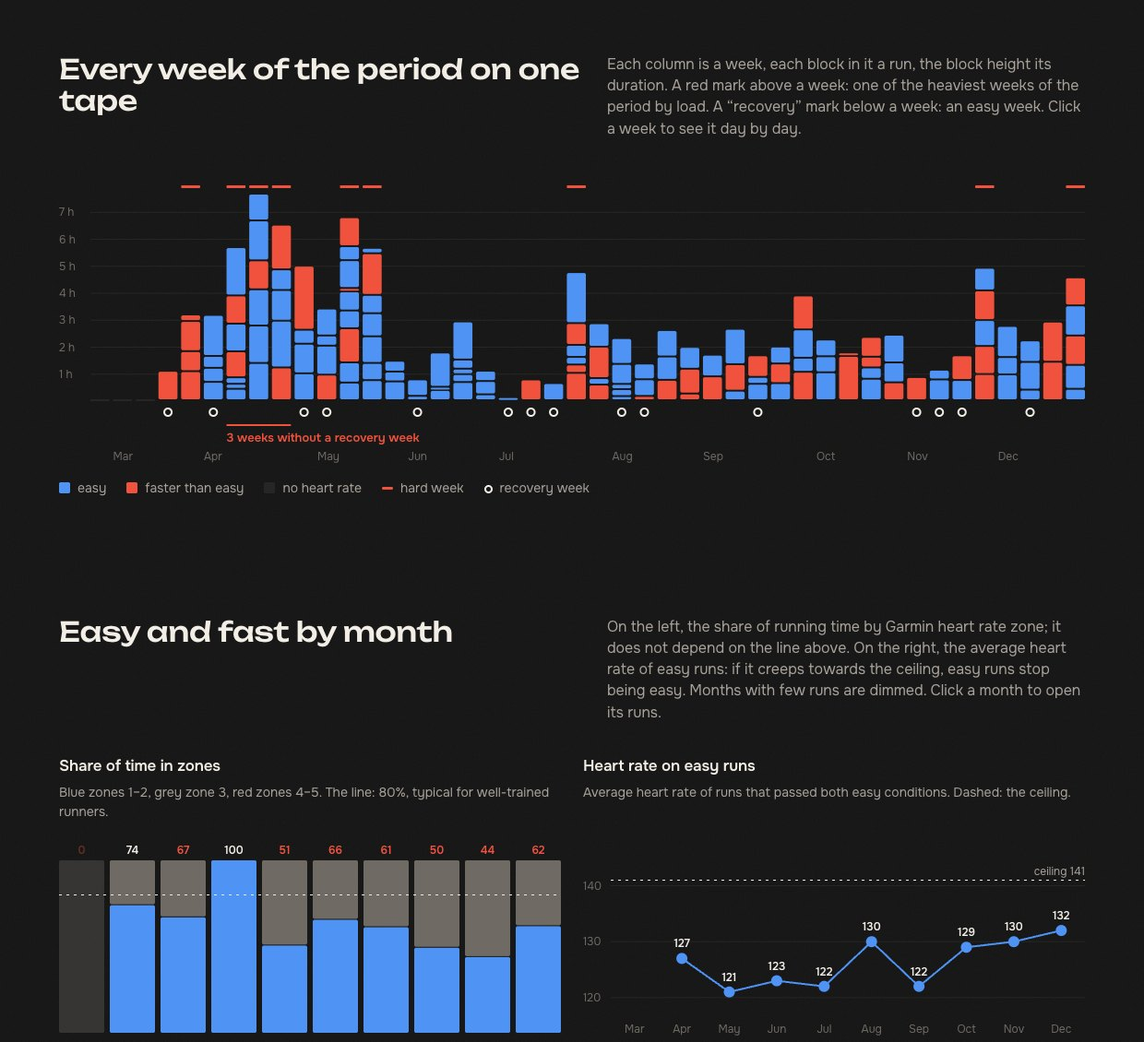
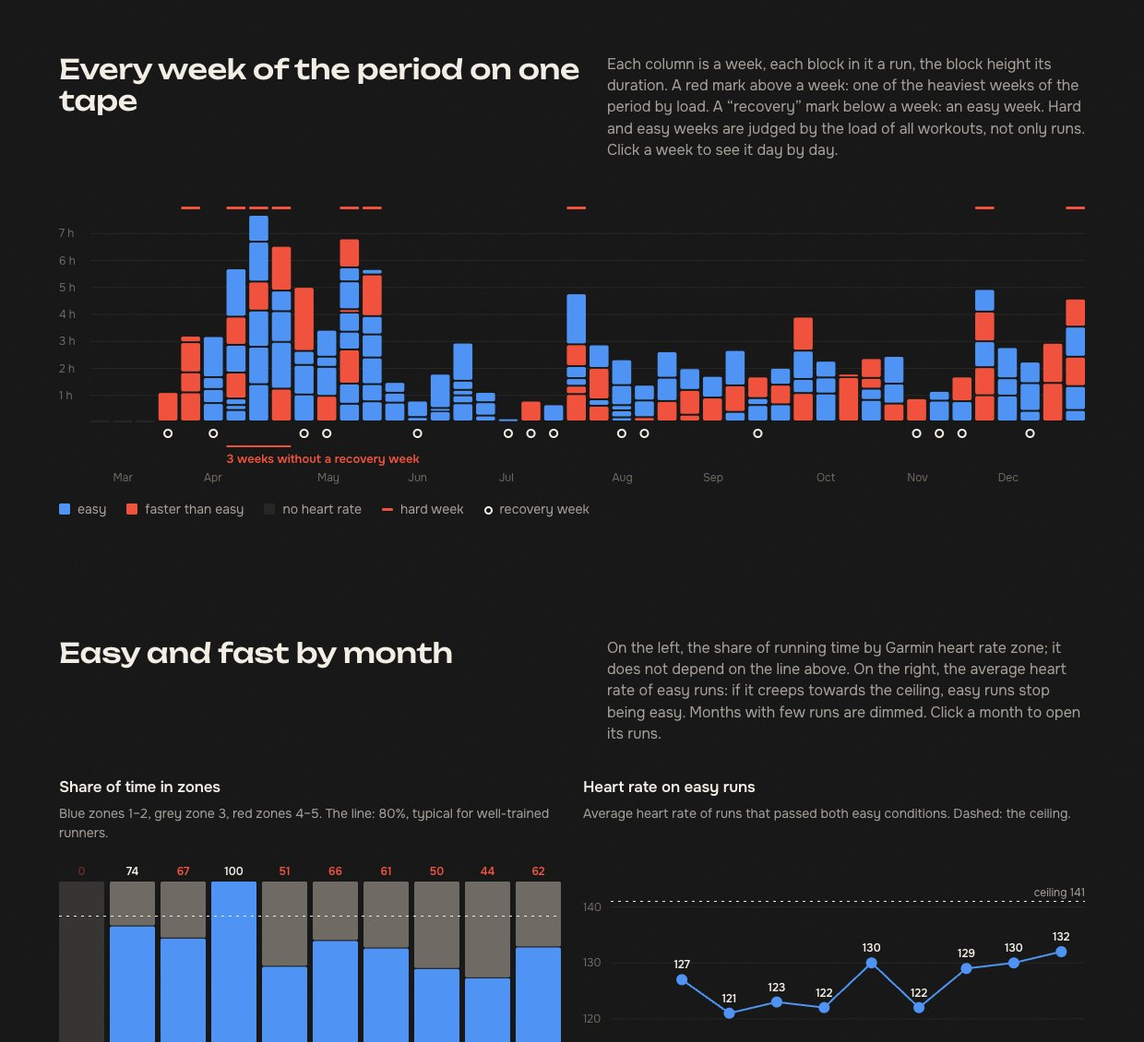
guides: say weekly load counts all workouts

diff --git a/guides/dashboard/template.html b/guides/dashboard/template.html
@@ -343,7 +343,7 @@ ru: {
   hz_shift: (d, dn, P) => `Граница сдвинута на <b>${d > 0 ? '+' : ''}${d}</b>: ${dn === 0 ? 'ни одна пробежка не поменяла сторону' : dn > 0 ? `ещё <b>${P(dn, L.ru.runsBecame)}</b> лёгкими` : `<b>${P(-dn, L.ru.runsStopped)}</b> быть лёгкими`}. Это меняет только дашборд, ваши зоны в Garmin остаются как были.`,
   ceil_label: 'граница', ceil_aria: 'Граница лёгкого пульса', reset: 'как в часах', thr: 'порог', hz_aria: 'Пробежки по среднему пульсу и границе лёгкого',
   tape_h2: 'Все недели периода одной лентой',
-  tape_lead: 'Столбик: неделя, блок в нём: пробежка, чем выше, тем дольше. Красная черта: одна из самых тяжёлых недель, «разгрузка»: лёгкая. Нажмите на неделю, чтобы открыть её по дням.',
+  tape_lead: 'Столбик: неделя, блок в нём: пробежка, чем выше, тем дольше. Красная черта: одна из самых тяжёлых недель, «разгрузка»: лёгкая. Тяжёлые и лёгкие недели считаются по нагрузке всех тренировок, не только бега. Нажмите на неделю, чтобы открыть её по дням.',
   lg_easy: 'лёгкая', lg_fast: 'быстрее лёгкого', lg_nohr: 'без пульса', lg_hard: 'ударная неделя', lg_deload: 'разгрузка',
   tape_aria: 'Пробежки по неделям', h: 'ч', min: 'мин', km: 'км', perkm: '/км', hr: 'пульс', max: 'макс', load: 'нагрузка', hardwk: 'ударная', deloadwk: 'разгрузка', rhr: 'пульс покоя',
   week_from: 'неделя с', Week_from: 'Неделя с', streak_lbl: n => `${n} ${slav(n, ['неделя','недели','недель'])} без разгрузки`, min_run: 'мин бега', close: 'закрыть', other: 'другая тренировка · нагрузка', rest: 'покой', treadmill: 'дорожка',
@@ -424,7 +424,7 @@ en: {
   hz_shift: (d, dn, P) => `Ceiling moved by <b>${d > 0 ? '+' : ''}${d}</b>: ${dn === 0 ? 'no run changed sides' : dn > 0 ? `<b>${P(dn, L.en.runsBecame)}</b> easy` : `<b>${P(-dn, L.en.runsStopped)}</b> easy`}. This changes how the dashboard looks at your runs, not your zones in Garmin.`,
   ceil_label: 'ceiling', ceil_aria: 'Easy heart rate ceiling', reset: 'as in the watch', thr: 'threshold', hz_aria: 'Runs by average heart rate against the easy ceiling',
   tape_h2: 'Every week of the period on one tape',
-  tape_lead: 'Each column is a week, each block in it a run, the block height its duration. A red mark above a week: one of the heaviest weeks of the period by load. A “recovery” mark below a week: an easy week. Click a week to see it day by day.',
+  tape_lead: 'Each column is a week, each block in it a run, the block height its duration. A red mark above a week: one of the heaviest weeks of the period by load. A “recovery” mark below a week: an easy week. Hard and easy weeks are judged by the load of all workouts, not only runs. Click a week to see it day by day.',
   lg_easy: 'easy', lg_fast: 'faster than easy', lg_nohr: 'no heart rate', lg_hard: 'hard week', lg_deload: 'recovery week',
   tape_aria: 'Runs by week', h: 'h', min: 'min', km: 'km', perkm: '/km', hr: 'HR', max: 'max', load: 'load', hardwk: 'hard', deloadwk: 'recovery', rhr: 'resting HR',
   week_from: 'week of', Week_from: 'Week of', streak_lbl: n => `${n} weeks without a recovery week`, min_run: 'min of running', close: 'close', other: 'other workout · load', rest: 'resting', treadmill: 'treadmill',
@@ -505,7 +505,7 @@ uk: {
   hz_shift: (d, dn, P) => `Межу зсунуто на <b>${d > 0 ? '+' : ''}${d}</b>: ${dn === 0 ? 'жодна пробіжка не змінила бік' : dn > 0 ? `ще <b>${P(dn, L.uk.runsBecame)}</b> легкими` : `<b>${P(-dn, L.uk.runsStopped)}</b> бути легкими`}. Це змінює погляд дашборду, а не ваші зони в Garmin.`,
   ceil_label: 'межа', ceil_aria: 'Межа легкого пульсу', reset: 'як у годиннику', thr: 'поріг', hz_aria: 'Пробіжки за середнім пульсом і межею легкого',
   tape_h2: 'Усі тижні періоду однією стрічкою',
-  tape_lead: 'Кожен стовпчик тиждень, кожен блок у ньому пробіжка, висота блоку її тривалість. Червона риска над тижнем: один із найважчих тижнів періоду за навантаженням. Мітка «розвантаження» під тижнем: легкий тиждень. Натисніть на тиждень, щоб побачити його по днях.',
+  tape_lead: 'Кожен стовпчик тиждень, кожен блок у ньому пробіжка, висота блоку її тривалість. Червона риска над тижнем: один із найважчих тижнів періоду за навантаженням. Мітка «розвантаження» під тижнем: легкий тиждень. Важкі й легкі тижні рахуються за навантаженням усіх тренувань, не лише бігу. Натисніть на тиждень, щоб побачити його по днях.',
   lg_easy: 'легка', lg_fast: 'швидше за легку', lg_nohr: 'без пульсу', lg_hard: 'ударний тиждень', lg_deload: 'розвантаження',
   tape_aria: 'Пробіжки за тижнями', h: 'год', min: 'хв', km: 'км', perkm: '/км', hr: 'пульс', max: 'макс', load: 'навантаження', hardwk: 'ударний', deloadwk: 'розвантаження', rhr: 'пульс спокою',
   week_from: 'тиждень з', Week_from: 'Тиждень з', streak_lbl: n => `${n} ${slav(n, ['тиждень','тижні','тижнів'])} без розвантаження`, min_run: 'хв бігу', close: 'закрити', other: 'інше тренування · навантаження', rest: 'спокій', treadmill: 'доріжка',

diff --git a/ua/guides/dashboard/index.html b/ua/guides/dashboard/index.html
@@ -218,13 +218,13 @@
     <div class="reads">
       <div class="read"><h3>Вердикт</h3><p>Одна фраза нагорі: що у ваших тренуваннях впадає в око першим. Наприклад, «Мало легкого бігу» або «5 тижнів поспіль без розвантаження». Поруч цифри, на яких вона тримається.</p></div>
       <div class="read"><h3>Лінія легкого</h3><p>Усі пробіжки року точками відносно межі легкого пульсу з вашого годинника. Лінію можна тягнути й дивитися, як вердикт залежить від одного налаштування в Garmin.</p></div>
-      <div class="read"><h3>Періодизація навантаження</h3><p>Кожен тиждень стовпчиком, кожна пробіжка блоком. Видно, як чергуються важкі й легкі тижні, чи закінчується робочий блок розвантаженням і скільки тижнів поспіль навантаження йшло без нього. Клік по тижню розкриває його по днях.</p></div>
+      <div class="read"><h3>Періодизація навантаження</h3><p>Кожен тиждень стовпчиком, кожна пробіжка блоком. Навантаження тижня рахується за всіма тренуваннями з годинника: велосипед, плавання, силові й записана ходьба теж входять, тож важкий тиждень на велосипеді не видаватиметься легким. Видно, як чергуються важкі й легкі тижні, чи закінчується робочий блок розвантаженням і скільки тижнів поспіль навантаження йшло без нього. Клік по тижню розкриває його по днях.</p></div>
       <div class="read"><h3>Техніка</h3><p>Каденс, довжина кроку, контакт із землею й підстрибування по місяцях: що було на початку року і що зараз. Якщо крок став важчим, дашборд перевірить, чи не в спеці справа.</p></div>
       <div class="read"><h3>Що з чим пов’язано</h3><p>Дашборд порівнює пробіжки між собою: спека, сон, навантаження напередодні, пульс спокою, HRV. Показує лише помітні зв’язки, і до кожного гіпотезу, яку можна перевірити на собі.</p></div>
       <div class="read"><h3>Форма і відновлення</h3><p>Метрів за удар серця: єдиний показник форми без тестів. І пульс спокою за тижнями на тлі важких, щоб бачити, чи вистачає відновлення.</p></div>
     </div>
     <figure class="demo-video"><video autoplay muted loop playsinline preload="metadata" poster="/assets/guides/dashboard/demo-line-uk.jpg" width="1080" height="622" aria-label="Відео: лінію легкого пульсу тягнуть униз і вгору, точки пробіжок перефарбовуються, цифри перераховуються"><source src="/assets/guides/dashboard/demo-line-uk.mp4" type="video/mp4"></video><figcaption>Так працює лінія легкого. Межа з годинника 141, легких 98 пробіжок зі 144. Зсуньте її на шість ударів униз, і легких лишається 71.</figcaption></figure>
-    <figure class="tape"><img src="/assets/guides/dashboard/dash-tape-uk.jpg?v=5" width="1240" height="1130" loading="lazy" decoding="async" alt="Стрічка тижнів і графіки за місяцями: частка часу в зонах, пульс на легких пробіжках"><figcaption>Дашборд на моїх даних за один біговий сезон. Унизу в нього два розділи, яких немає в жодному застосунку: «Як рахували», де підписано кожен поріг, і «Чого цей дашборд не знає».</figcaption></figure>
+    <figure class="tape"><img src="/assets/guides/dashboard/dash-tape-uk.jpg?v=6" width="1240" height="1130" loading="lazy" decoding="async" alt="Стрічка тижнів і графіки за місяцями: частка часу в зонах, пульс на легких пробіжках"><figcaption>Дашборд на моїх даних за один біговий сезон. Унизу в нього два розділи, яких немає в жодному застосунку: «Як рахували», де підписано кожен поріг, і «Чого цей дашборд не знає».</figcaption></figure>
   </div>
 </section>
 

diff --git a/guides/dashboard/index.html b/guides/dashboard/index.html
@@ -236,13 +236,13 @@
     <div class="reads">
       <div class="read"><h3>Вердикт</h3><p>Одна фраза наверху: что в ваших тренировках бросается в глаза первым. Например, «Мало лёгкого бега» или «5 недель подряд без разгрузки». Рядом цифры, на которых она держится.</p></div>
       <div class="read"><h3>Линия лёгкого</h3><p>Все пробежки года точками вокруг границы лёгкого пульса из ваших часов. Линию можно тянуть и смотреть, что изменится, если граница в часах стоит неточно.</p></div>
-      <div class="read"><h3>Периодизация нагрузки</h3><p>Каждая неделя столбиком, каждая пробежка блоком. Видно, как чередуются тяжёлые и лёгкие недели, заканчивается ли рабочий блок разгрузкой и сколько недель подряд нагрузка шла без неё. Нажмите на неделю, и она раскроется по дням.</p></div>
+      <div class="read"><h3>Периодизация нагрузки</h3><p>Каждая неделя столбиком, каждая пробежка блоком. Нагрузка недели считается по всем тренировкам из часов: велосипед, плавание, силовые и записанная ходьба тоже входят, поэтому тяжёлая неделя на велосипеде не притворится лёгкой. Видно, как чередуются тяжёлые и лёгкие недели, заканчивается ли рабочий блок разгрузкой и сколько недель подряд нагрузка шла без неё. Нажмите на неделю, и она раскроется по дням.</p></div>
       <div class="read"><h3>Техника</h3><p>Каденс, длина шага, контакт с землёй и подпрыгивание по месяцам: что было в начале года и что сейчас. Если шаг стал тяжелее, дашборд проверит, не в жаре ли дело.</p></div>
       <div class="read"><h3>Что с чем связано</h3><p>Дашборд сравнивает пробежки между собой: жара, сон, нагрузка накануне, пульс покоя, HRV. Показывает только заметные связи, и к каждой гипотезу, которую можно проверить на себе.</p></div>
       <div class="read"><h3>Форма и восстановление</h3><p>Метров на удар сердца: растёт ли форма, без всяких тестов. И пульс покоя по неделям: успеваете ли вы восстанавливаться после тяжёлых.</p></div>
     </div>
     <figure class="demo-video"><video autoplay muted loop playsinline preload="metadata" poster="/assets/guides/dashboard/demo-line-ru.jpg" width="1080" height="622" aria-label="Видео: линию лёгкого пульса тянут вниз и вверх, точки пробежек перекрашиваются, цифры пересчитываются"><source src="/assets/guides/dashboard/demo-line-ru.mp4" type="video/mp4"></video><figcaption>Так работает линия лёгкого. Граница из часов 141, лёгких 98 пробежек из 144. Сдвиньте её на шесть ударов вниз, и лёгких остаётся 71.</figcaption></figure>
-    <figure class="tape"><img src="/assets/guides/dashboard/dash-tape.jpg?v=6" width="1240" height="1130" loading="lazy" decoding="async" alt="Лента недель и графики по месяцам: доля времени в зонах, пульс на лёгких пробежках"><figcaption>Дашборд на моих данных за один беговой сезон. Внизу два раздела: «Как считали», где подписан каждый порог, и «Чего этот дашборд не знает».</figcaption></figure>
+    <figure class="tape"><img src="/assets/guides/dashboard/dash-tape.jpg?v=7" width="1240" height="1130" loading="lazy" decoding="async" alt="Лента недель и графики по месяцам: доля времени в зонах, пульс на лёгких пробежках"><figcaption>Дашборд на моих данных за один беговой сезон. Внизу два раздела: «Как считали», где подписан каждый порог, и «Чего этот дашборд не знает».</figcaption></figure>
   </div>
 </section>
 

diff --git a/en/guides/dashboard/index.html b/en/guides/dashboard/index.html
@@ -223,13 +223,13 @@
     <div class="reads">
       <div class="read"><h3>The verdict</h3><p>One line at the top: what stands out in your training first. For example, “Not much easy running” or “5 weeks in a row without a recovery week”. The numbers behind it sit next to it.</p></div>
       <div class="read"><h3>The easy line</h3><p>Every run of the year as a dot against the easy heart rate ceiling from your own watch. Drag the line and see how much the verdict depends on one setting in Garmin.</p></div>
-      <div class="read"><h3>Load periodization</h3><p>Each week a column, each run a block. You see how hard and easy weeks alternate, whether a working block ends with a recovery week, and how long the load ran without one. Click a week to open it day by day.</p></div>
+      <div class="read"><h3>Load periodization</h3><p>Each week a column, each run a block. Weekly load counts every workout your watch recorded: cycling, swimming, strength and recorded walks are included too, so a hard week on the bike will not pass for an easy one. You see how hard and easy weeks alternate, whether a working block ends with a recovery week, and how long the load ran without one. Click a week to open it day by day.</p></div>
       <div class="read"><h3>Technique</h3><p>Cadence, stride length, ground contact and bounce by month: where you started the year and where you are now. If your step got heavier, the dashboard checks whether heat is the reason.</p></div>
       <div class="read"><h3>What goes with what</h3><p>The dashboard compares your runs with each other: heat, sleep, the load before, resting heart rate, HRV. It shows only clear links, each with a hypothesis you can test on yourself.</p></div>
       <div class="read"><h3>Fitness and recovery</h3><p>Metres per heartbeat: the only measure of form that needs no test. And resting heart rate by week against the hard weeks, to see whether you recover enough.</p></div>
     </div>
     <figure class="demo-video"><video autoplay muted loop playsinline preload="metadata" poster="/assets/guides/dashboard/demo-line-en.jpg" width="1080" height="622" aria-label="Video: the easy heart rate line is dragged down and up, run dots change colour and the numbers update"><source src="/assets/guides/dashboard/demo-line-en.mp4" type="video/mp4"></video><figcaption>This is the easy line at work. The ceiling from the watch is 141, and 98 of 144 runs are easy. Move it six beats down and only 71 stay easy.</figcaption></figure>
-    <figure class="tape"><img src="/assets/guides/dashboard/dash-tape-en.jpg?v=5" width="1240" height="1130" loading="lazy" decoding="async" alt="The week tape and the monthly charts: share of time in zones, heart rate on easy runs"><figcaption>The dashboard on my own data for one running season. At the bottom it has two sections no app has: “How it was calculated”, where every threshold is named, and “What this dashboard does not know”.</figcaption></figure>
+    <figure class="tape"><img src="/assets/guides/dashboard/dash-tape-en.jpg?v=6" width="1240" height="1130" loading="lazy" decoding="async" alt="The week tape and the monthly charts: share of time in zones, heart rate on easy runs"><figcaption>The dashboard on my own data for one running season. At the bottom it has two sections no app has: “How it was calculated”, where every threshold is named, and “What this dashboard does not know”.</figcaption></figure>
   </div>
 </section>
 
